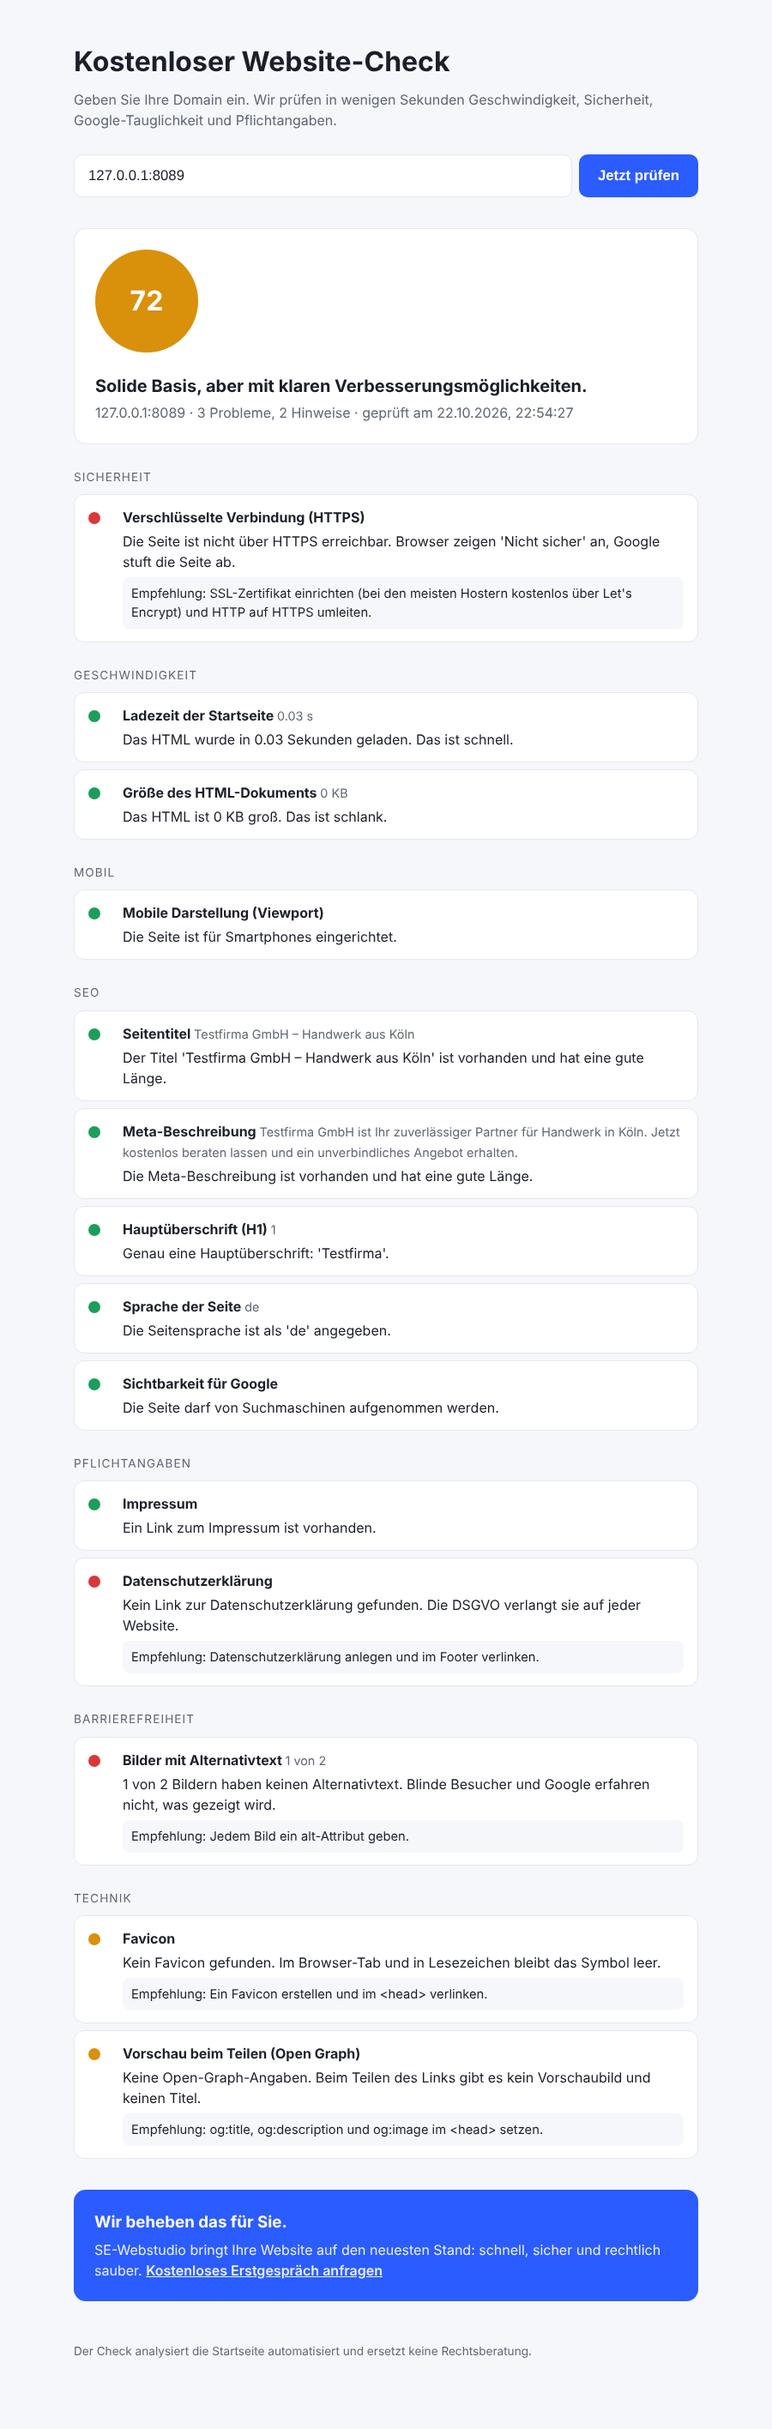
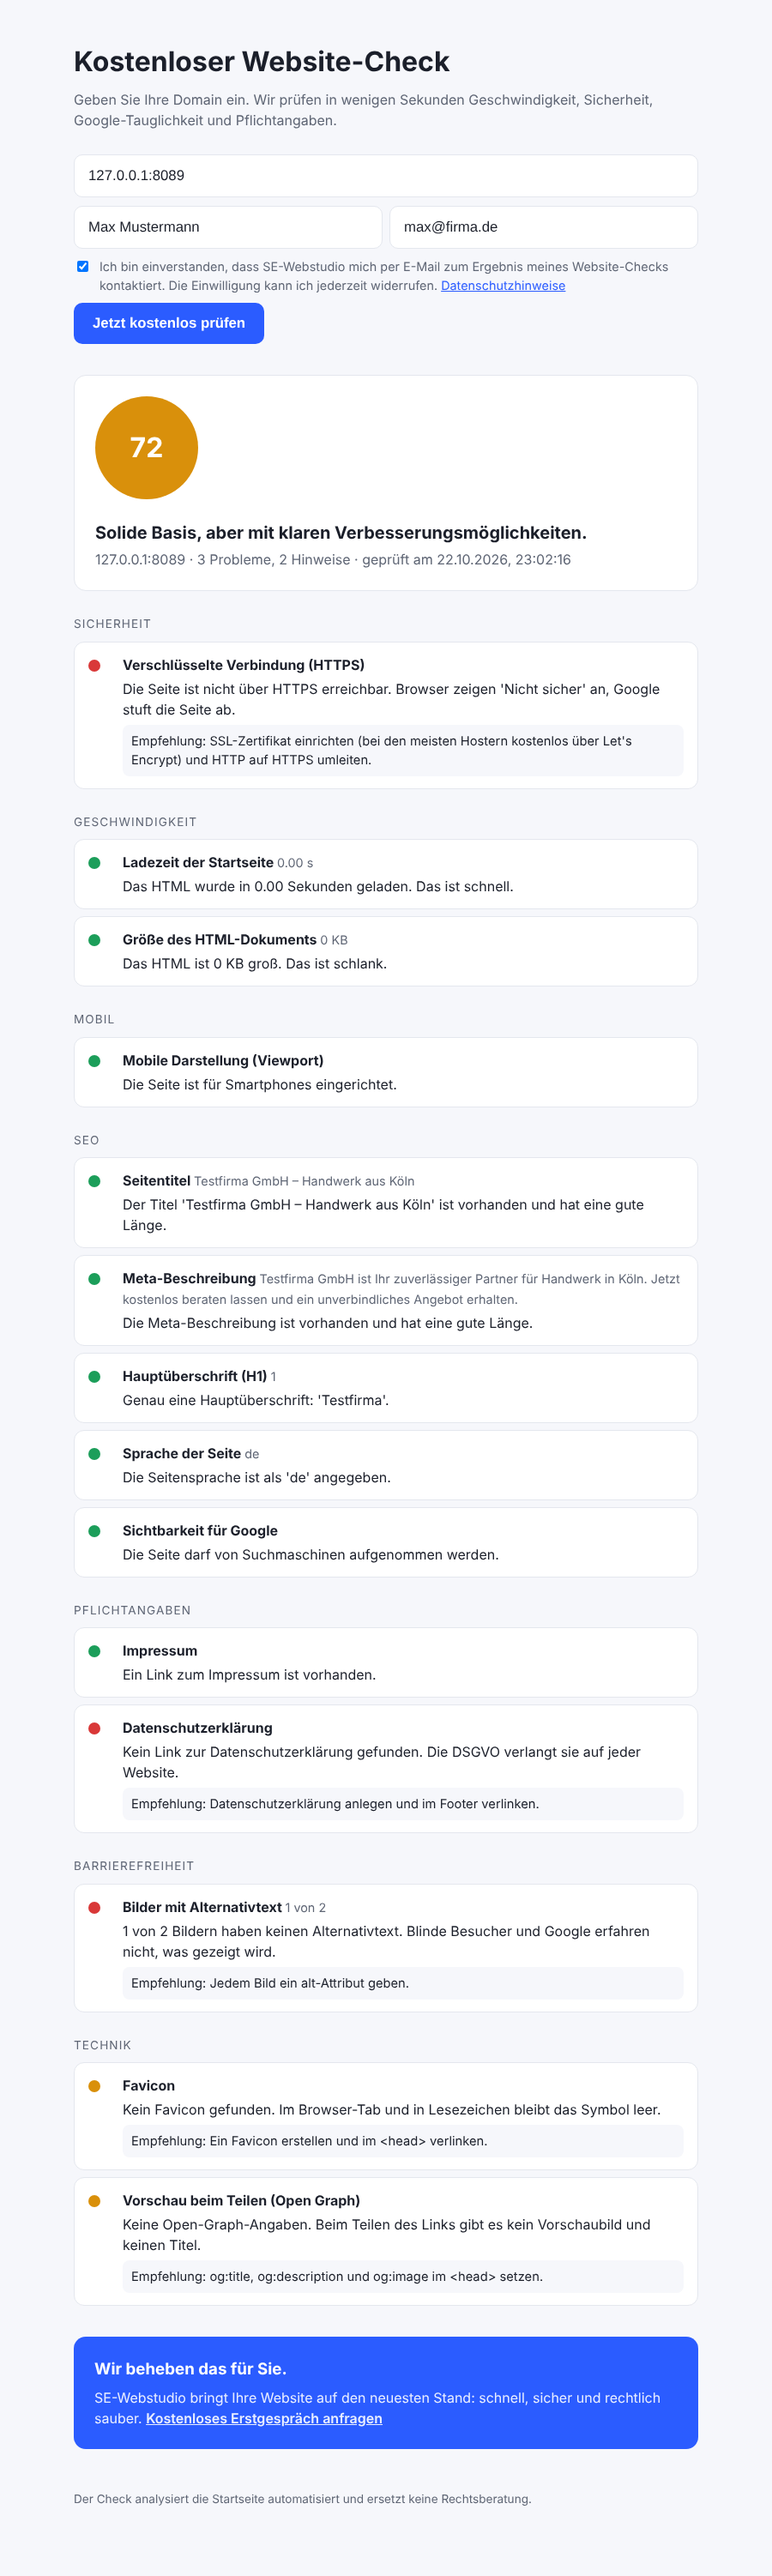
E-Mail-Feld und Kontaktspeicherung im Website-Check ergänzen
Besucher geben vor dem Ergebnis E-Mail, optional Namen und ihre
Zustimmung zur Kontaktaufnahme an. Der Server prüft beides und
speichert jeden Check als Kontakt in data/leads.jsonl, optional
zusätzlich per Webhook (LEAD_WEBHOOK_URL).

- src/leads.js: E-Mail-Prüfung, Speichern und Lesen der Kontakte
- src/leads-cli.js: `npm run leads` zeigt alle Kontakte an
- public/index.html: Formular mit Name, E-Mail und Einwilligung
- public/datenschutz.html: Platzhalter für die Datenschutzhinweise
- REQUIRE_EMAIL=0 schaltet die Pflicht für interne Nutzung ab
- 3 neue Tests, README erweitert

Claude-Session: https://claude.ai/code/session_01WbUKoyocyoah9yzTWDKNKo

diff --git a/website-check/public/index.html b/website-check/public/index.html
@@ -18,8 +18,12 @@
     main { max-width: 760px; margin: 0 auto; padding: 48px 16px 80px; }
     h1 { font-size: 2rem; margin: 0 0 8px; }
     .lead { color: var(--muted); margin: 0 0 28px; }
-    form { display: flex; gap: 8px; flex-wrap: wrap; }
-    input[type=text] { flex: 1 1 260px; padding: 14px 16px; font-size: 1.05rem; border: 1px solid var(--line); border-radius: 10px; background: var(--card); color: var(--text); }
+    form { display: flex; flex-direction: column; gap: 10px; }
+    .row { display: flex; gap: 8px; flex-wrap: wrap; }
+    .consent { display: flex; gap: 10px; align-items: flex-start; font-size: .9rem; color: var(--muted); }
+    .consent input { margin-top: 4px; }
+    .consent a { color: var(--accent); }
+    input[type=text], input[type=email] { flex: 1 1 260px; padding: 14px 16px; font-size: 1.05rem; border: 1px solid var(--line); border-radius: 10px; background: var(--card); color: var(--text); }
     button { padding: 14px 22px; font-size: 1.05rem; border: 0; border-radius: 10px; background: var(--accent); color: #fff; cursor: pointer; font-weight: 600; }
     button:disabled { opacity: .6; cursor: wait; }
     .status { margin-top: 16px; color: var(--muted); }
@@ -48,8 +52,20 @@
   <p class="lead">Geben Sie Ihre Domain ein. Wir prüfen in wenigen Sekunden Geschwindigkeit, Sicherheit, Google-Tauglichkeit und Pflichtangaben.</p>
 
   <form id="form">
-    <input id="url" type="text" placeholder="z. B. meine-firma.de" autocomplete="url" required>
-    <button id="btn" type="submit">Jetzt prüfen</button>
+    <div class="row">
+      <input id="url" type="text" placeholder="Ihre Domain, z. B. meine-firma.de" autocomplete="url" required>
+    </div>
+    <div class="row">
+      <input id="name" type="text" placeholder="Ihr Name (optional)" autocomplete="name">
+      <input id="email" type="email" placeholder="Ihre E-Mail-Adresse" autocomplete="email" required>
+    </div>
+    <label class="consent">
+      <input id="consent" type="checkbox" required>
+      <span>Ich bin einverstanden, dass SE-Webstudio mich per E-Mail zum Ergebnis meines Website-Checks kontaktiert. Die Einwilligung kann ich jederzeit widerrufen. <a href="/datenschutz.html">Datenschutzhinweise</a></span>
+    </label>
+    <div class="row">
+      <button id="btn" type="submit">Jetzt kostenlos prüfen</button>
+    </div>
   </form>
   <div id="status" class="status" hidden></div>
   <div id="error" class="error" hidden></div>
@@ -84,13 +100,16 @@
   form.addEventListener("submit", async (e) => {
     e.preventDefault();
     const url = document.getElementById("url").value.trim();
+    const email = document.getElementById("email").value.trim();
+    const name = document.getElementById("name").value.trim();
+    const consent = document.getElementById("consent").checked;
     btn.disabled = true;
     result.hidden = true;
     errorEl.hidden = true;
     statusEl.hidden = false;
     statusEl.textContent = "Seite wird geladen und geprüft …";
     try {
-      const res = await fetch("/api/check", { method: "POST", headers: { "content-type": "application/json" }, body: JSON.stringify({ url }) });
+      const res = await fetch("/api/check", { method: "POST", headers: { "content-type": "application/json" }, body: JSON.stringify({ url, email, name, consent }) });
       const data = await res.json();
       if (!res.ok) throw new Error(data.error || "Unbekannter Fehler");
       render(data);

diff --git a/website-check/src/leads.js b/website-check/src/leads.js
@@ -1,0 +1,64 @@
+import fs from "node:fs/promises";
+import path from "node:path";
+
+const DEFAULT_FILE = path.join(process.cwd(), "data", "leads.jsonl");
+
+/** Einfache, großzügige E-Mail-Prüfung: etwas@etwas.tld */
+export function isValidEmail(value) {
+  const s = String(value || "").trim();
+  return s.length <= 254 && /^[^\s@]+@[^\s@]+\.[^\s@]{2,}$/.test(s);
+}
+
+/**
+ * Speichert einen Kontakt als Zeile in data/leads.jsonl und schickt ihn
+ * optional an einen Webhook (z. B. Zapier, Make oder ein CRM).
+ * Fehler beim Webhook werden nur protokolliert, der Check läuft trotzdem weiter.
+ */
+export async function saveLead(lead, options = {}) {
+  const file = options.file || process.env.LEADS_FILE || DEFAULT_FILE;
+  const webhook = options.webhook ?? process.env.LEAD_WEBHOOK_URL;
+
+  const record = {
+    createdAt: new Date().toISOString(),
+    email: String(lead.email).trim().toLowerCase(),
+    host: lead.host,
+    score: lead.score,
+    consent: true,
+    ...(lead.name ? { name: String(lead.name).trim().slice(0, 120) } : {}),
+  };
+
+  await fs.mkdir(path.dirname(file), { recursive: true });
+  await fs.appendFile(file, JSON.stringify(record) + "\n", "utf8");
+
+  if (webhook) {
+    try {
+      const res = await fetch(webhook, {
+        method: "POST",
+        headers: { "content-type": "application/json" },
+        body: JSON.stringify(record),
+        signal: AbortSignal.timeout(8000),
+      });
+      if (!res.ok) console.error(`Lead-Webhook antwortete mit Status ${res.status}`);
+    } catch (err) {
+      console.error(`Lead-Webhook fehlgeschlagen: ${err.message}`);
+    }
+  }
+
+  return record;
+}
+
+/** Liest alle gespeicherten Kontakte, neueste zuerst. */
+export async function readLeads(file = process.env.LEADS_FILE || DEFAULT_FILE) {
+  let text;
+  try {
+    text = await fs.readFile(file, "utf8");
+  } catch (err) {
+    if (err.code === "ENOENT") return [];
+    throw err;
+  }
+  return text
+    .split("\n")
+    .filter(Boolean)
+    .map((line) => JSON.parse(line))
+    .reverse();
+}

diff --git a/website-check/test/leads.test.js b/website-check/test/leads.test.js
@@ -1,0 +1,36 @@
+import { test } from "node:test";
+import assert from "node:assert/strict";
+import fs from "node:fs/promises";
+import os from "node:os";
+import path from "node:path";
+import { isValidEmail, saveLead, readLeads } from "../src/leads.js";
+
+test("isValidEmail erkennt gültige und ungültige Adressen", () => {
+  assert.equal(isValidEmail("max@firma.de"), true);
+  assert.equal(isValidEmail("  Max.Mustermann@sub.firma.co.uk "), true);
+  assert.equal(isValidEmail(""), false);
+  assert.equal(isValidEmail("max@firma"), false);
+  assert.equal(isValidEmail("max firma.de"), false);
+  assert.equal(isValidEmail(undefined), false);
+});
+
+test("saveLead schreibt eine Zeile, readLeads liest sie neueste zuerst", async () => {
+  const dir = await fs.mkdtemp(path.join(os.tmpdir(), "leads-"));
+  const file = path.join(dir, "sub", "leads.jsonl");
+
+  await saveLead({ email: " Max@Firma.de ", host: "firma.de", score: 61, name: "Max" }, { file, webhook: null });
+  await saveLead({ email: "anna@beispiel.de", host: "beispiel.de", score: 88 }, { file, webhook: null });
+
+  const leads = await readLeads(file);
+  assert.equal(leads.length, 2);
+  assert.equal(leads[0].email, "anna@beispiel.de");
+  assert.equal(leads[1].email, "max@firma.de");
+  assert.equal(leads[1].name, "Max");
+  assert.equal(leads[1].consent, true);
+  assert.ok(leads[1].createdAt);
+});
+
+test("readLeads gibt leere Liste zurück, wenn es noch keine Datei gibt", async () => {
+  const leads = await readLeads(path.join(os.tmpdir(), "gibt-es-nicht-" + Date.now(), "x.jsonl"));
+  assert.deepEqual(leads, []);
+});

diff --git a/website-check/src/server.js b/website-check/src/server.js
@@ -2,6 +2,7 @@ import express from "express";
 import path from "node:path";
 import { fileURLToPath } from "node:url";
 import { checkSite } from "./fetchSite.js";
+import { isValidEmail, saveLead } from "./leads.js";
 
 const __dirname = path.dirname(fileURLToPath(import.meta.url));
 const app = express();
@@ -22,18 +23,26 @@ app.use("/api/check", (req, res, next) => {
   next();
 });
 
-app.post("/api/check", async (req, res) => {
-  try {
-    const report = await checkSite(req.body?.url);
-    res.json(report);
-  } catch (err) {
-    res.status(400).json({ error: err.message });
-  }
-});
+// E-Mail-Pflicht lässt sich für interne Nutzung mit REQUIRE_EMAIL=0 abschalten.
+const requireEmail = process.env.REQUIRE_EMAIL !== "0";
 
-app.get("/api/check", async (req, res) => {
+app.post("/api/check", async (req, res) => {
+  const { url, email, name, consent } = req.body || {};
+
+  if (requireEmail || email) {
+    if (!isValidEmail(email)) return res.status(400).json({ error: "Bitte eine gültige E-Mail-Adresse angeben." });
+    if (consent !== true) return res.status(400).json({ error: "Bitte der Kontaktaufnahme zustimmen." });
+  }
+
   try {
-    const report = await checkSite(req.query.url);
+    const report = await checkSite(url);
+    if (email) {
+      try {
+        await saveLead({ email, name, host: report.host, score: report.score });
+      } catch (err) {
+        console.error(`Kontakt konnte nicht gespeichert werden: ${err.message}`);
+      }
+    }
     res.json(report);
   } catch (err) {
     res.status(400).json({ error: err.message });

diff --git a/website-check/public/datenschutz.html b/website-check/public/datenschutz.html
@@ -1,0 +1,26 @@
+<!doctype html>
+<html lang="de">
+<head>
+  <meta charset="utf-8">
+  <meta name="viewport" content="width=device-width, initial-scale=1">
+  <title>Datenschutzhinweise – Website-Check</title>
+  <style>
+    body { margin: 0; font-family: system-ui, sans-serif; line-height: 1.6; color: #1b1f2a; background: #f6f7fb; }
+    main { max-width: 720px; margin: 0 auto; padding: 48px 16px; }
+    a { color: #2b5cff; }
+  </style>
+</head>
+<body>
+<main>
+  <h1>Datenschutzhinweise zum Website-Check</h1>
+  <p><strong>Platzhalter.</strong> Bitte vor dem Live-Gang durch die eigene Datenschutzerklärung ersetzen oder darauf verlinken.</p>
+  <h2>Welche Daten werden verarbeitet?</h2>
+  <p>Die eingegebene Domain, Ihre E-Mail-Adresse, optional Ihr Name, das Ergebnis des Checks sowie der Zeitpunkt der Anfrage.</p>
+  <h2>Wofür?</h2>
+  <p>Um Ihnen das Ergebnis zu erläutern und Ihnen ein Angebot zur Verbesserung Ihrer Website zu machen. Rechtsgrundlage ist Ihre Einwilligung (Art. 6 Abs. 1 lit. a DSGVO).</p>
+  <h2>Widerruf</h2>
+  <p>Sie können die Einwilligung jederzeit per E-Mail an <a href="mailto:kontakt@se-webstudio.de">kontakt@se-webstudio.de</a> widerrufen. Ihre Daten werden dann gelöscht.</p>
+  <p><a href="/">Zurück zum Website-Check</a></p>
+</main>
+</body>
+</html>

diff --git a/website-check/src/leads-cli.js b/website-check/src/leads-cli.js
@@ -1,0 +1,13 @@
+import { readLeads } from "./leads.js";
+
+const leads = await readLeads();
+if (leads.length === 0) {
+  console.log("Noch keine Kontakte gespeichert.");
+  process.exit(0);
+}
+
+console.log(`${leads.length} Kontakt(e), neueste zuerst:\n`);
+for (const l of leads) {
+  const when = new Date(l.createdAt).toLocaleString("de-DE");
+  console.log(`${when}  ${String(l.score).padStart(3)} Punkte  ${l.host.padEnd(30)}  ${l.email}${l.name ? `  (${l.name})` : ""}`);
+}

diff --git a/website-check/README.md b/website-check/README.md
@@ -44,14 +44,43 @@ Jede Prüfung hat ein Gewicht. Bestanden gibt volle Punkte, ein Hinweis die
 Hälfte, ein Fehler nichts. Die Prüflogik liegt in `src/analyze.js` und ist
 ohne Netzwerk testbar. Der Abruf der Seite liegt in `src/fetchSite.js`.
 
+## Kontakte (Leads)
+
+Vor dem Ergebnis müssen Besucher ihre E-Mail-Adresse eingeben und der
+Kontaktaufnahme zustimmen. Jeder Check wird mit Zeitpunkt, E-Mail, optionalem
+Namen, Domain und Punktzahl in `data/leads.jsonl` gespeichert. Die Datei ist
+nicht im Git.
+
+```bash
+npm run leads        # alle Kontakte anzeigen, neueste zuerst
+```
+
+Optional lässt sich jeder neue Kontakt zusätzlich an einen Webhook schicken,
+etwa Zapier, Make oder ein CRM:
+
+```bash
+LEAD_WEBHOOK_URL=https://hooks.zapier.com/... npm start
+```
+
+Weitere Einstellungen:
+
+| Variable          | Bedeutung                                                    |
+|-------------------|--------------------------------------------------------------|
+| `PORT`            | Port des Servers, Standard 3000                              |
+| `LEADS_FILE`      | Pfad der Kontaktdatei, Standard `data/leads.jsonl`           |
+| `LEAD_WEBHOOK_URL`| Webhook, an den jeder neue Kontakt als JSON geschickt wird   |
+| `REQUIRE_EMAIL=0` | E-Mail-Pflicht abschalten, z. B. für interne Nutzung          |
+
+Die Seite `public/datenschutz.html` ist ein Platzhalter und muss vor dem
+Live-Gang durch die eigene Datenschutzerklärung ersetzt werden.
+
 ## Schnittstelle
 
-`POST /api/check` mit `{ "url": "beispiel-firma.de" }` oder
-`GET /api/check?url=beispiel-firma.de`. Antwort ist JSON mit `score`,
-`summary` und `checks`. Maximal 10 Anfragen pro Minute und IP.
+`POST /api/check` mit `{ "url": "beispiel-firma.de", "email": "max@firma.de",
+"name": "Max", "consent": true }`. Antwort ist JSON mit `score`, `summary` und
+`checks`. Maximal 10 Anfragen pro Minute und IP.
 
 ## Nächste Schritte
 
-- E-Mail-Feld vor dem Ergebnis, damit aus dem Check ein Kontakt wird
 - Bericht als PDF mit Agentur-Logo zum Verschicken
 - In die Agentur-Website einbauen
